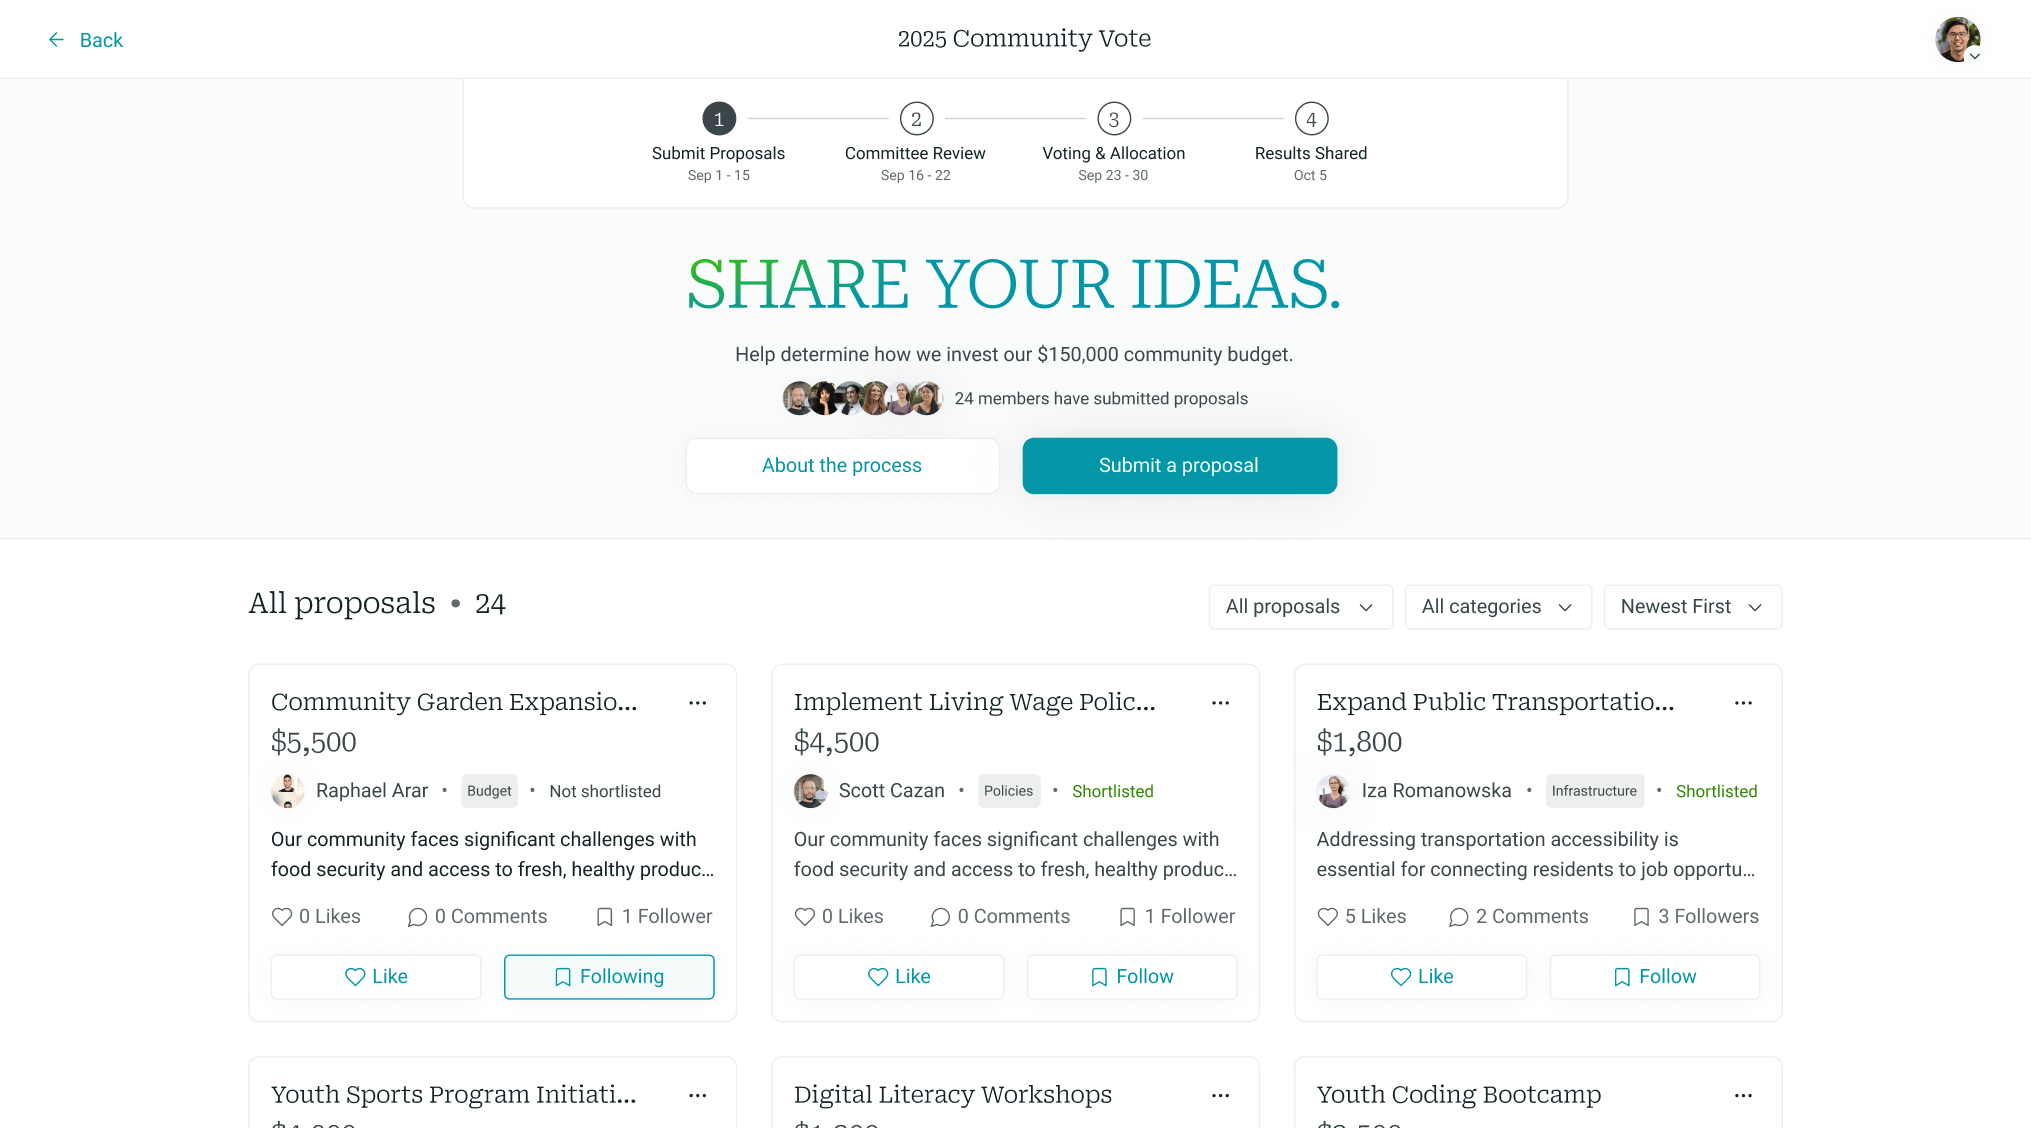
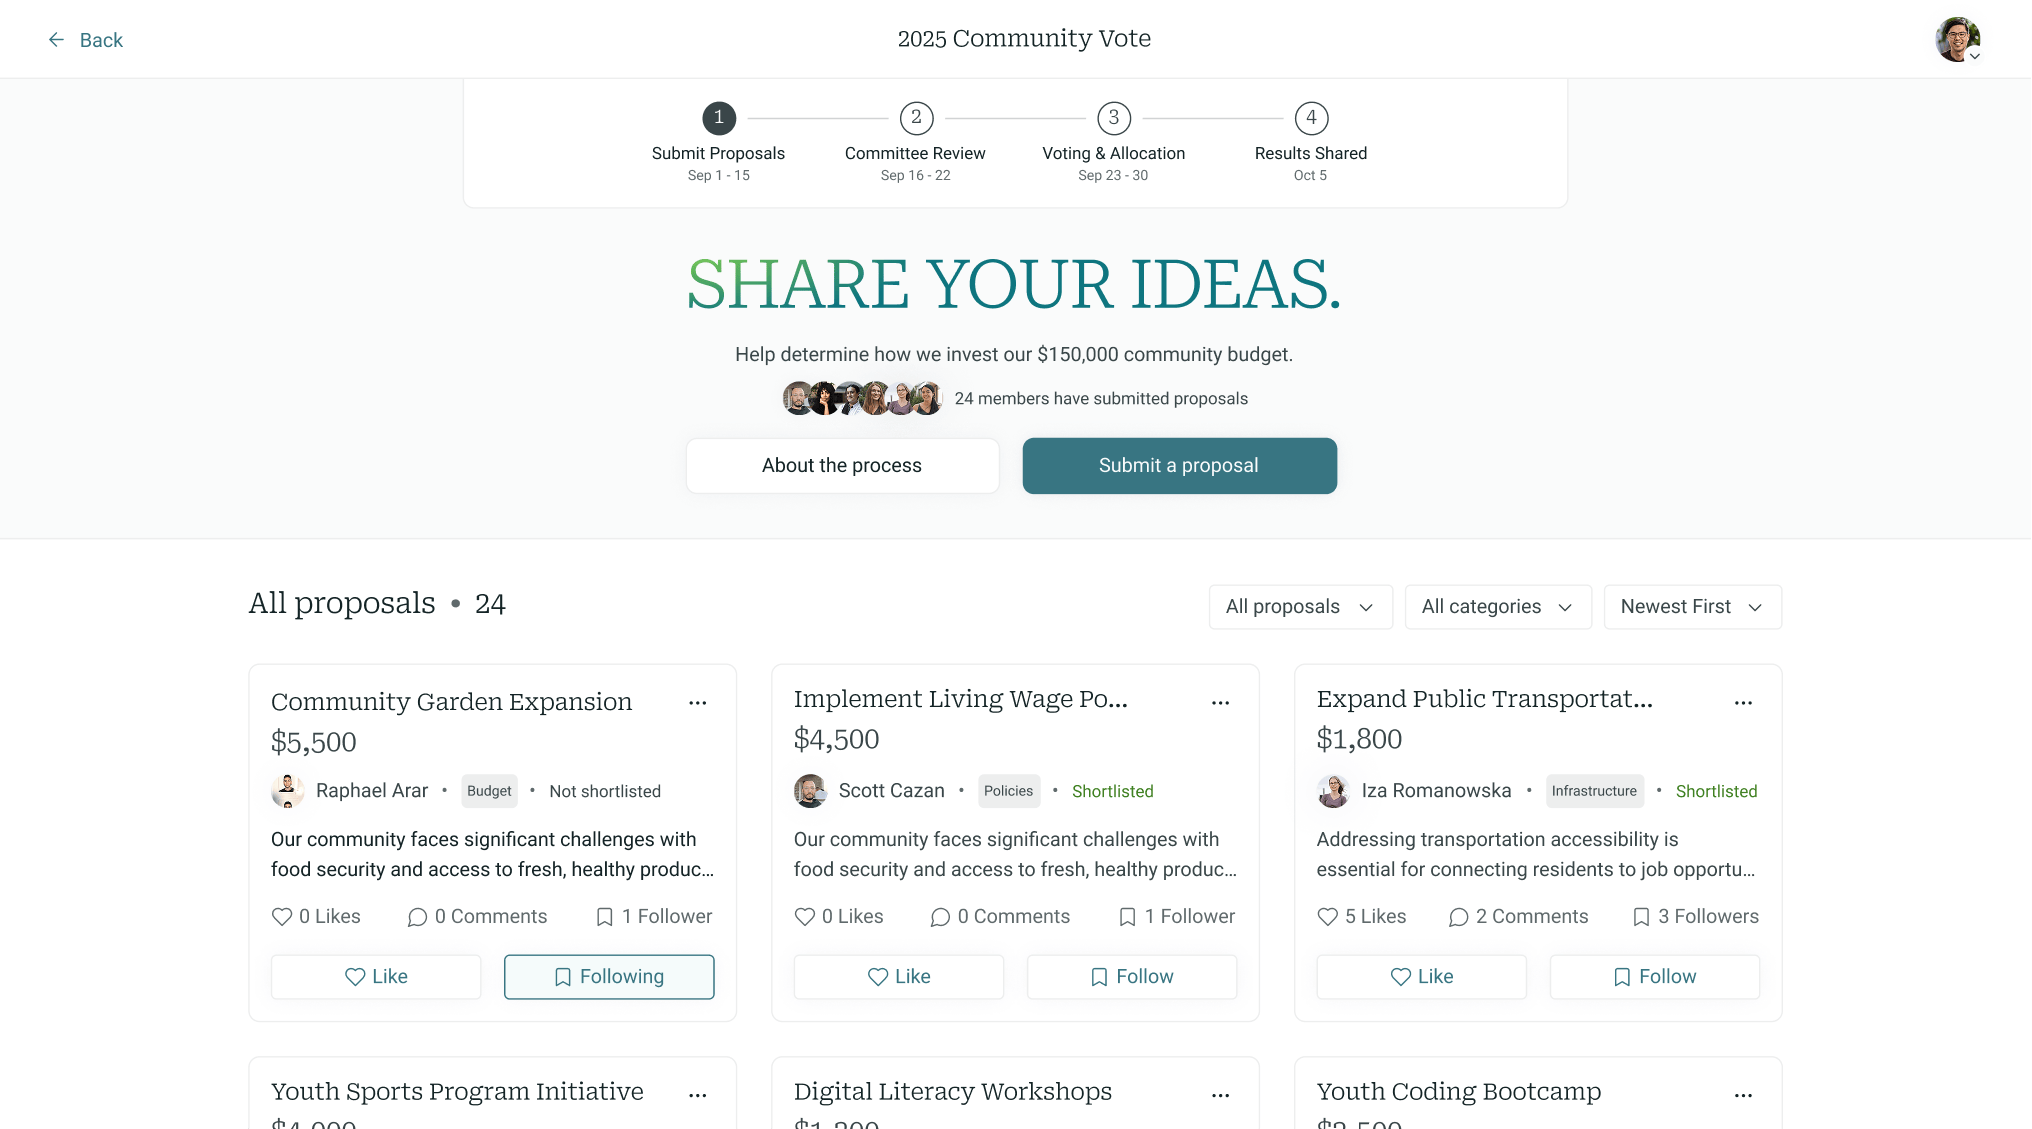
Update logged out page and assets

diff --git a/apps/app/src/components/screens/ComingSoon/ComingSoonScreen.tsx b/apps/app/src/components/screens/ComingSoon/ComingSoonScreen.tsx
@@ -20,8 +20,8 @@ export const ComingSoonScreen = () => {
   const t = useTranslations();
   return (
     <>
-      <div className="pointer-events-none absolute top-0 z-10 h-50 w-full bg-gradient-to-b from-[white] from-10% via-[rgba(255,255,255,0.35)] via-45%" />
-      <div className="pointer-events-none absolute bottom-0 z-10 h-50 w-full bg-gradient-to-t from-[white] from-10% via-[rgba(255,255,255,0.35)] via-45%" />
+      <div className="pointer-events-none absolute top-0 z-10 h-30 w-full bg-gradient-to-b from-[white] from-10% via-[rgba(255,255,255,0.35)] via-45%" />
+      <div className="pointer-events-none absolute bottom-0 z-10 h-30 w-full bg-gradient-to-t from-[white] from-10% via-[rgba(255,255,255,0.35)] via-45%" />
       <motion.header
         transition={{ duration: 1 }}
         animate={{ opacity: 1 }}
@@ -45,11 +45,11 @@ export const ComingSoonScreen = () => {
             animate={{ opacity: 1, scale: 1, y: 0 }}
             transition={{ duration: 2, delay: 0.25 }}
           >
-            <h1 className="flex flex-col font-serif text-title-md text-balance text-neutral-charcoal sm:text-3xl">
+            <h1 className="flex flex-col font-serif text-title-md font-normal text-balance text-neutral-charcoal sm:text-3xl">
               <span>
                 {t('Helping people decide together how to use their resources')}
               </span>
-              <span className="font-serif text-title-md sm:text-3xl">
+              <span className="font-serif text-title-md font-normal sm:text-3xl">
                 <AnimatedGradientText>
                   {t('simply, intuitively, and effectively.')}
                 </AnimatedGradientText>
@@ -57,7 +57,7 @@ export const ComingSoonScreen = () => {
             </h1>
           </motion.div>
           <motion.div
-            className="relative grid items-center p-[4vw]"
+            className="relative grid max-w-256 items-center p-[4vw] py-16 sm:px-12"
             initial={{ opacity: 0, scale: 0.96, y: 20 }}
             animate={{ opacity: 1, scale: 1, y: 0 }}
             transition={{ duration: 2, delay: 0.75 }}
@@ -73,13 +73,13 @@ export const ComingSoonScreen = () => {
                 alt="Screenshot of the Common platform"
                 width={1568}
                 height={1041}
-                className="relative mx-auto w-7xl max-w-[85vw] shadow sm:max-w-[70vw]"
+                className="relative mx-auto w-7xl max-w-[85vw] shadow sm:max-w-224"
                 priority
               />
             </motion.div>
           </motion.div>
           <FadeInWrapper>
-            <p className="flex flex-col space-y-4 text-balance sm:block sm:max-w-144 sm:text-lg">
+            <p className="flex flex-col space-y-4 text-balance sm:block sm:max-w-196 sm:text-xl">
               <span>
                 {t.rich(
                   'Built for <fancy>communities</fancy> ready to share power and co-create <fancy>social change</fancy> — and <fancy>funders</fancy> who trust them to lead.',
@@ -122,7 +122,7 @@ export const ComingSoonScreen = () => {
         </FadeInWrapper>
         <FadeInWrapper>
           <section className="flex flex-col items-center gap-6 p-6">
-            <Header2 className="font-serif text-title-md">
+            <Header2 className="font-serif text-title-md sm:text-title-lg">
               {t('Get early access')}
             </Header2>
             <div className="sm:text-lg">

diff --git a/apps/app/src/components/screens/ComingSoon/AnimatedGradientBackground.tsx b/apps/app/src/components/screens/ComingSoon/AnimatedGradientBackground.tsx
@@ -103,8 +103,8 @@ export function AnimatedGradientBackground() {
 
   const background = useMotionTemplate`radial-gradient(
     ellipse at ${gradientX}% ${gradientY}%,
-    var(--color-teal-300),
-    var(--color-teal-50)
+    var(--color-primary),
+    var(--op-primary-50)
   )`;
 
   return (
@@ -126,8 +126,8 @@ export function AnimatedGradientText({
 
   const backgroundImage = useMotionTemplate`radial-gradient(
     50% 120% at ${gradientX}% ${gradientY}%,
-    var(--color-green-500) 0%,
-    var(--color-blue-700) 70%
+    var(--op-functional-green-500) 0%,
+    #446FCC 70%
   )`;
 
   return (
